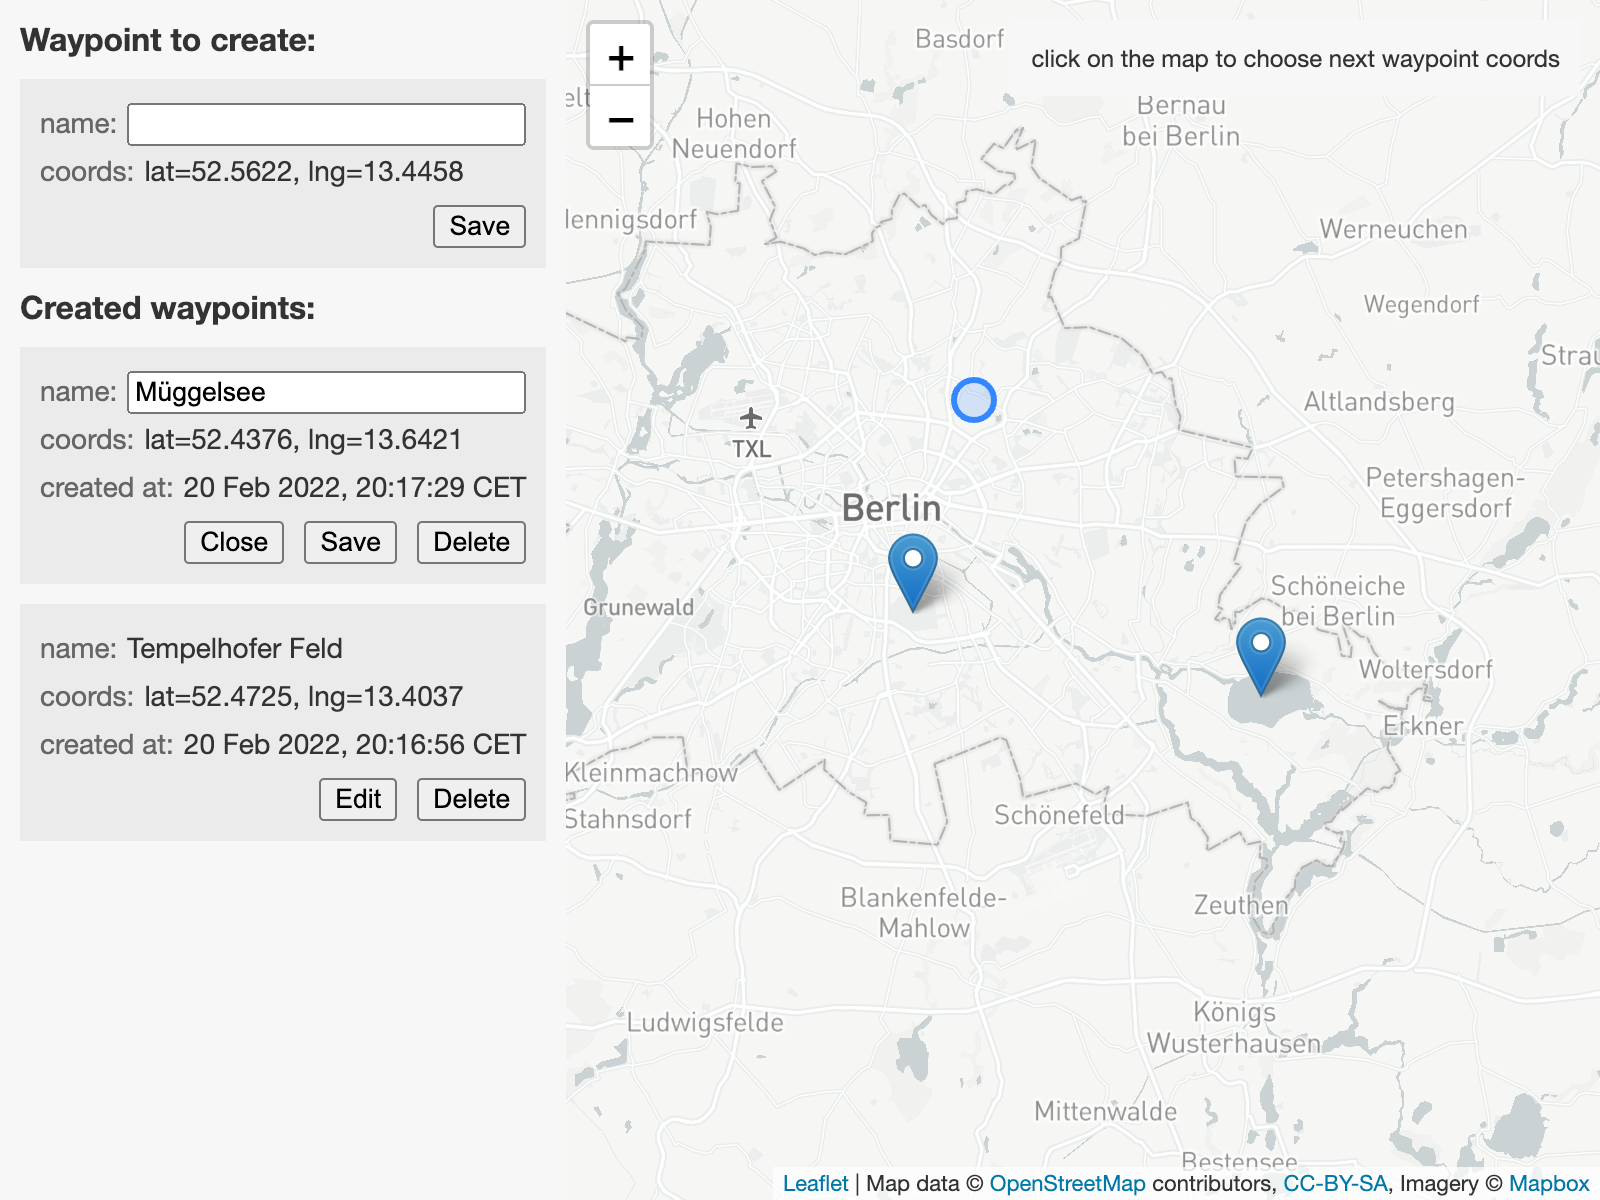
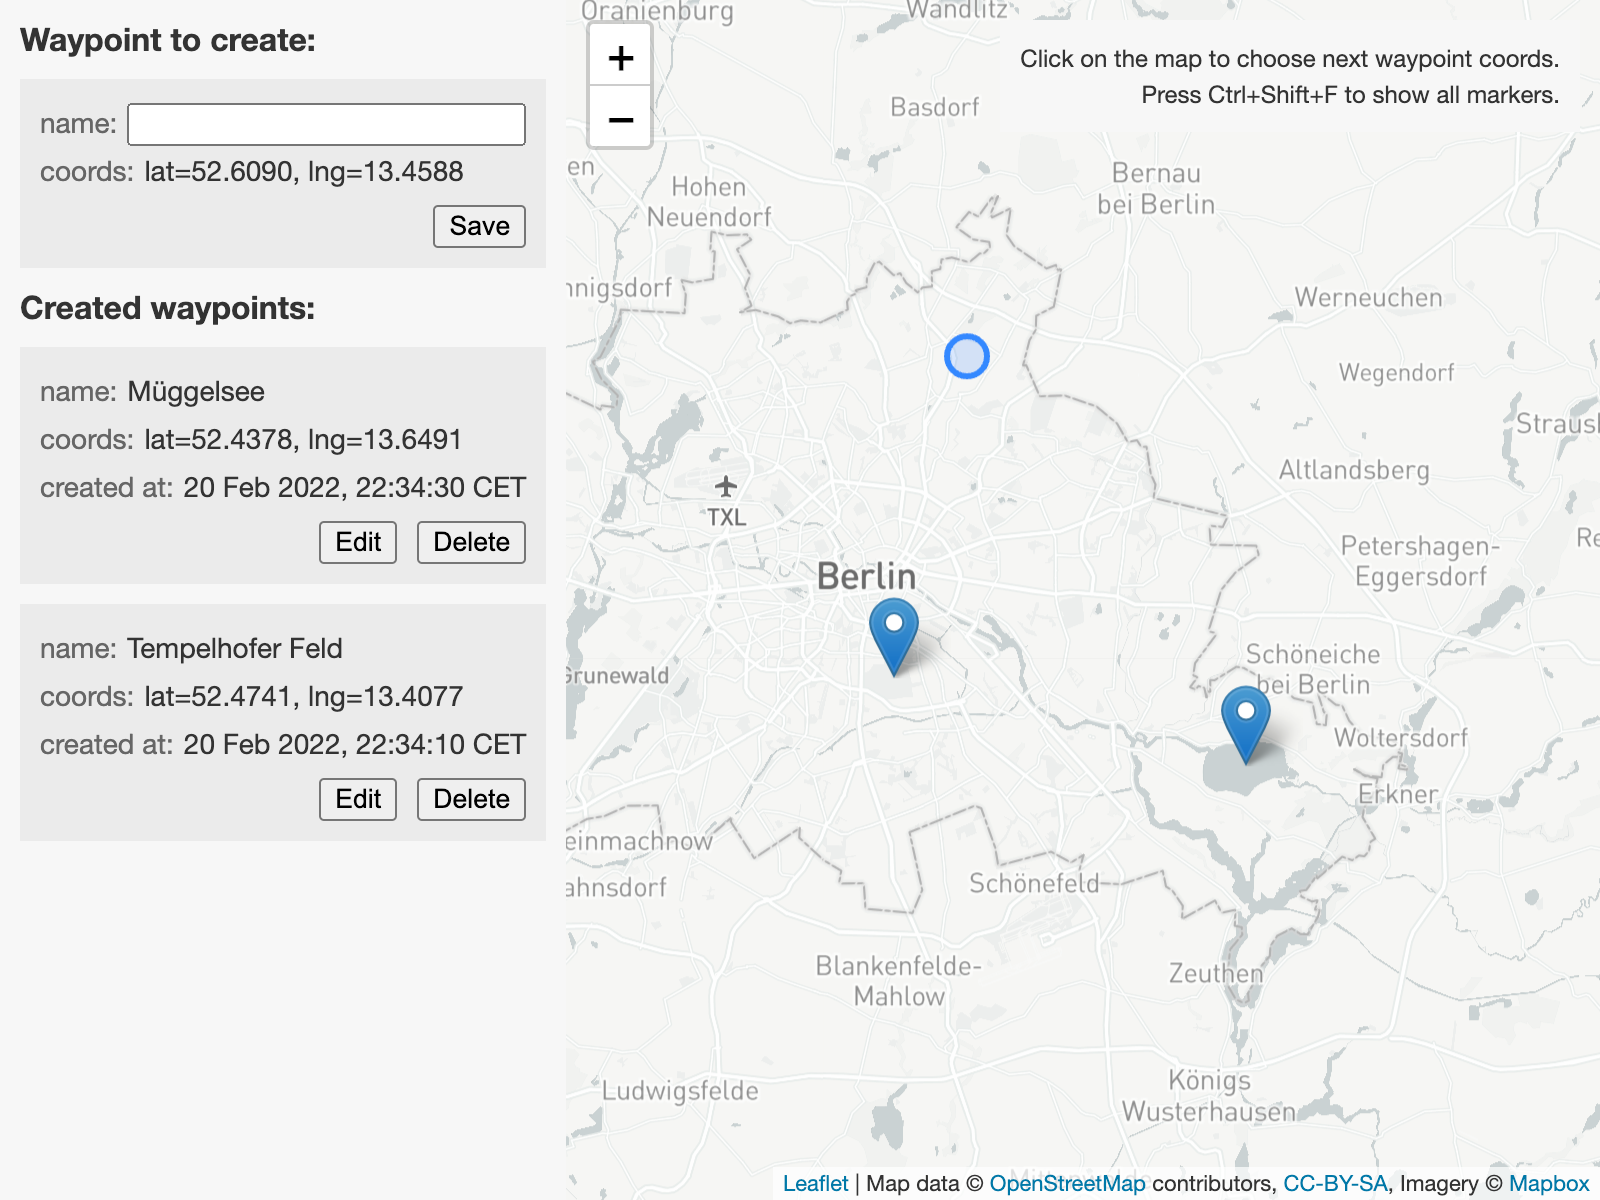
show all markers on ctrl+shift+f

diff --git a/frontend/src/components/Map.tsx b/frontend/src/components/Map.tsx
@@ -35,9 +35,11 @@ export default function Map(
   useEffect(() => {
     const map = createMap(false)
     const infoBox = new InfoBox(config.map.infoBox.options as L.ControlOptions)
+
     infoBox.addTo(map)
     circleMarkerRef.current.addTo(map)
     mapRef.current = map
+
     return () => { map.remove() }
   }, [])
 
@@ -57,21 +59,31 @@ export default function Map(
       markerGroupRef.current.remove()
     }
 
-    if (mapRef.current === undefined || waypointList.length === 0) {
-      return
-    }
-
     markerGroupRef.current = L.featureGroup(waypointList.map(
       (waypoint) => createWaypointMarker(waypoint, onMarkerClick),
     ))
 
-    const padding = config.map.fitBoundsPadding as [number, number]
-    const bounds = markerGroupRef.current.getBounds()
-
-    bounds.extend(circleMarkerRef.current.getLatLng())
-    mapRef.current.fitBounds(bounds, { padding })
-    markerGroupRef.current.addTo(mapRef.current)
+    if (mapRef.current !== undefined) {
+      markerGroupRef.current.addTo(mapRef.current)
+    }
   }, [ waypointList, onMarkerClick ])
+
+  useEffect(() => {
+    const handleKeyDown = (event: KeyboardEvent): void => {
+      const { code, ctrlKey, shiftKey } = event
+
+      if (!(ctrlKey && shiftKey && code === 'KeyF')) { return }
+      if (mapRef.current === undefined || markerGroupRef.current === undefined) { return }
+
+      const padding = config.map.fitBoundsPadding as [number, number]
+      const bounds = markerGroupRef.current.getBounds()
+
+      bounds.extend(circleMarkerRef.current.getLatLng())
+      mapRef.current.fitBounds(bounds, { padding })
+    }
+
+    document.addEventListener('keydown', handleKeyDown)
+  }, [])
 
   return (
     <div id="map" />

diff --git a/frontend/src/map/InfoBox.ts b/frontend/src/map/InfoBox.ts
@@ -1,11 +1,13 @@
 import * as L from 'leaflet'
 
+import config from '../config'
+
 import './InfoBox.scss'
 
 export default class InfoBox extends L.Control {
   public onAdd(): HTMLElement {
     const element = L.DomUtil.create('aside', 'InfoBox')
-    element.innerHTML = 'click on the map to choose next waypoint coords'
+    element.innerHTML = config.map.infoBox.message
     return element
   }
 }

diff --git a/frontend/src/config.ts b/frontend/src/config.ts
@@ -40,6 +40,7 @@ export default {
       options: {
         position: 'topright',
       },
+      message: 'Click on the map to choose next waypoint coords.<br/>Press Ctrl+Shift+F to show all markers.',
     },
   },
 }
